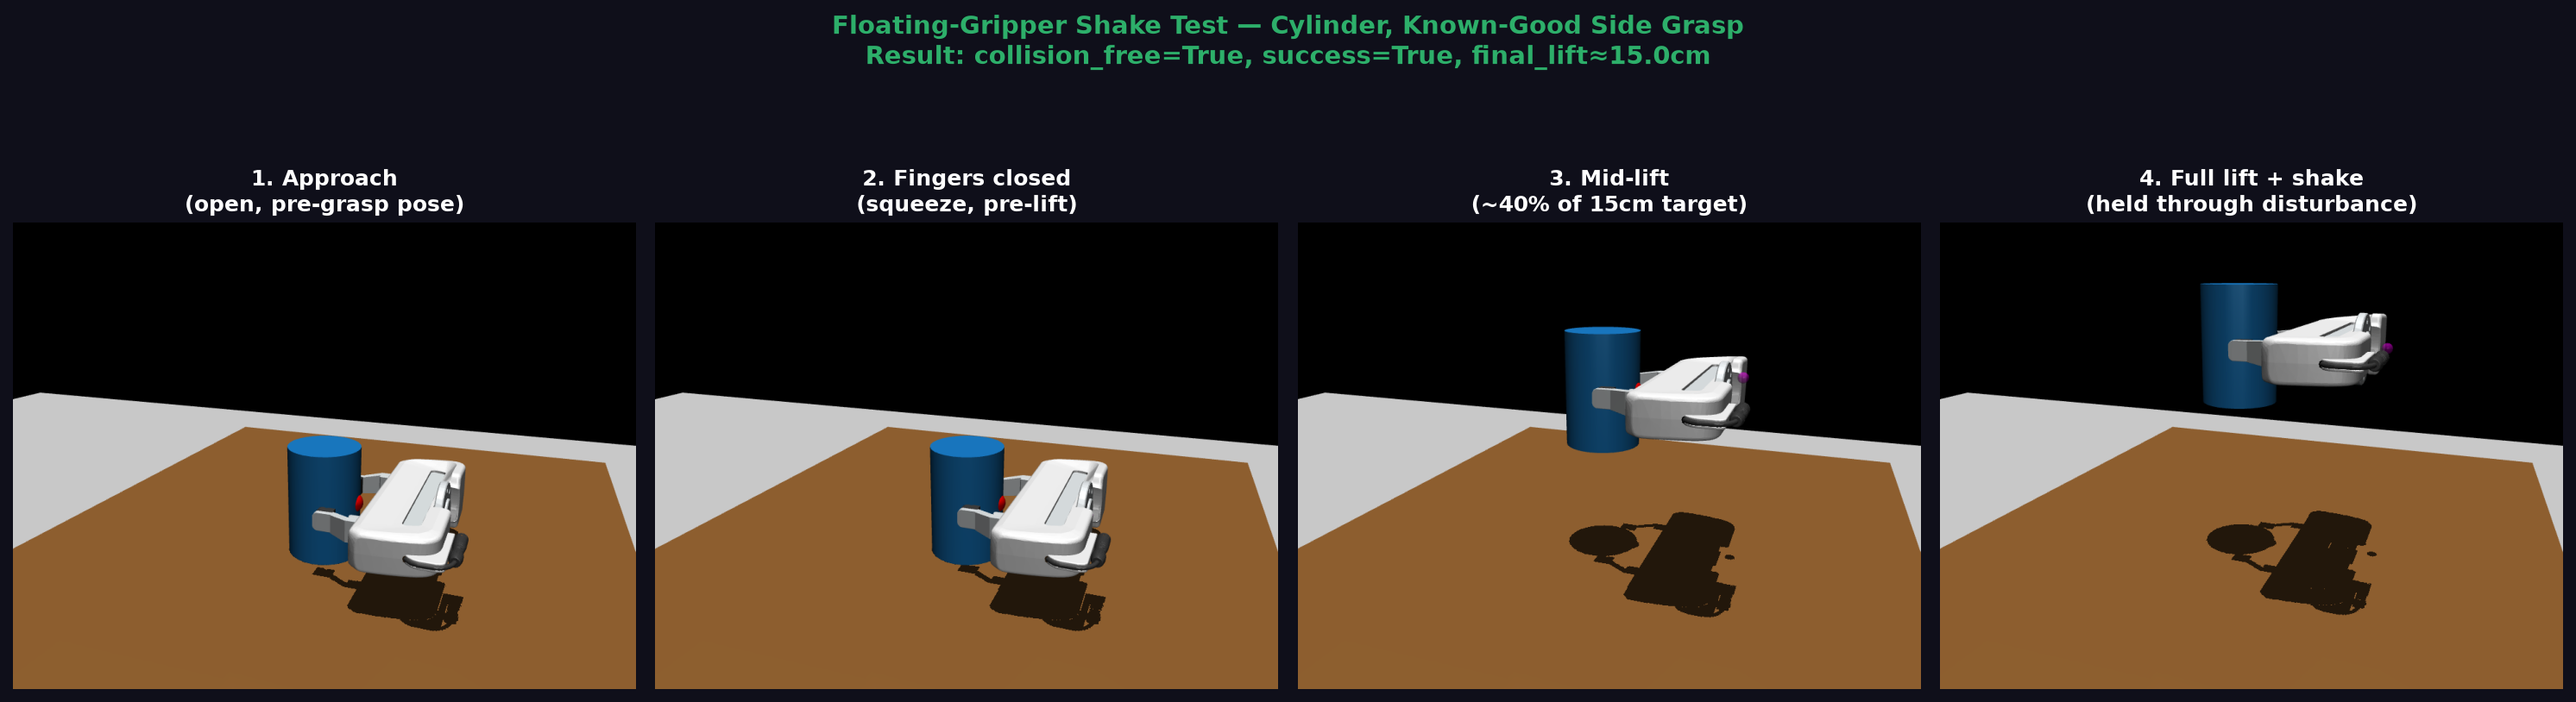
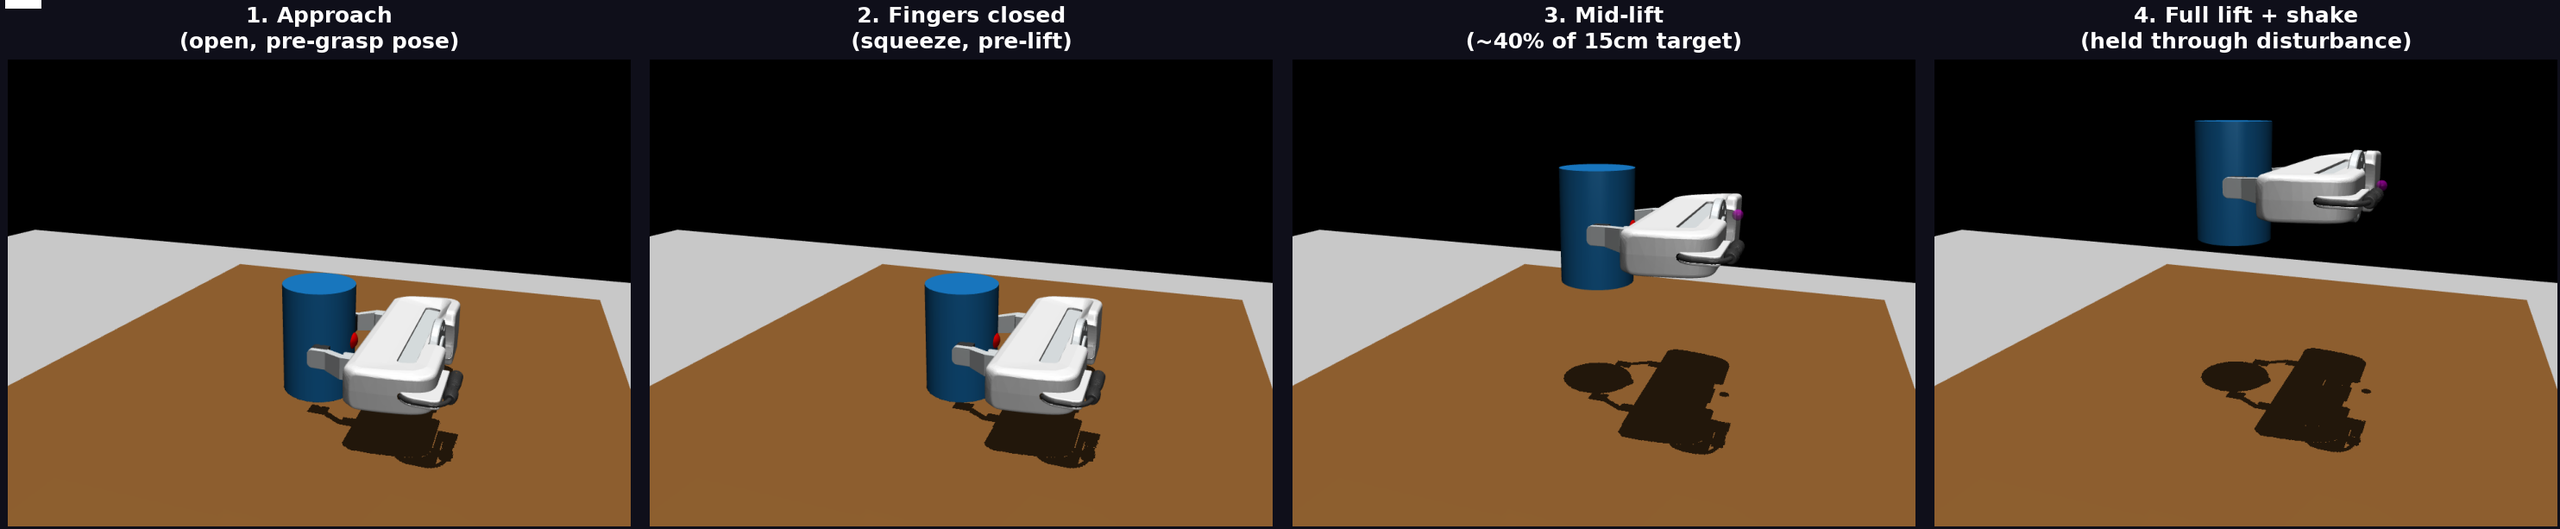
chore: update experimental results and figure assets in run_experiments.py

diff --git a/run_experiments.py b/run_experiments.py
@@ -1,14 +1,34 @@
 """
 run_experiments.py
 ==================
-Full 432-trial batch experiment for the MSc thesis.
+Batch experiment runner for the MSc thesis.
 
-Experimental grid (4 × 4 × 3 × 3 × 3 = 432 trials):
+ORIGINAL grid (4 x 4 x 3 x 3 x 3 = 432 trials), preserved in
+`results/experiment_results.csv` and referenced throughout the fitted SCM,
+counterfactual ground truth, and LLM baseline:
   sigma_d : [0.000, 0.005, 0.020, 0.040]   depth noise std dev (m)
   rho     : [1.0,   0.75,  0.50,  0.25]    point cloud keep fraction
-  phi     : [30,    45,    60]              camera elevation (deg)
+  phi     : [30,    45,    60]             camera elevation (deg)
   theta   : [0,     45,    90]             camera azimuth (deg)
   repeat  : [0,     1,     2]              3 random seeds per condition
+
+DENSIFIED grid (current default, 6 x 4 x 6 x 3 x 3 = 1296 trials), added to
+resolve two under-sampled regions identified from the original 432-trial
+results: the sigma_d success-rate collapse (42.6% -> 11.1%) occurred
+entirely between sigma_d=0.005 and sigma_d=0.02 with no intermediate
+sample point, and the phi "dead zone" (success falls to 15.3% at phi=60,
+with 98/167 unexplained "none" counterfactual failures concentrated there)
+was bracketed only by a bare 45 -> 60 jump. Two points were added inside
+each gap (sigma_d: +0.010, +0.015; phi: +50, +55, +65 to also bracket the
+transition from above) rather than replacing the original grid, so every
+original condition is re-sampled with 3 fresh seeds -- this run therefore
+also doubles seed coverage (3 -> 6) at every point shared with the original
+grid, addressing the "increase seeds" item from the same review.
+  sigma_d : [0.000, 0.005, 0.010, 0.015, 0.020, 0.040]
+  rho     : [1.0,   0.75,  0.50,  0.25]     unchanged
+  phi     : [30,    45,    50,    55,   60,   65]
+  theta   : [0,     45,    90]              unchanged
+  repeat  : [0,     1,     2]               3 random seeds per condition
 
 Each trial records:
   Exogenous  : sigma_d, rho, phi, theta, seed
@@ -18,14 +38,31 @@ Each trial records:
     e_pose   - Euclidean distance between proposed and true object position
     n_grasps - total CGN grasp candidates
   Outcome:
-    success  - 1 if object lifted above LIFT_HEIGHT, else 0
+    success  - 1 if the end-effector is within GRASP_RADIUS of the object
+               centroid after the scripted approach + close (proximity
+               criterion; see execute_grasp() -- NOT a physical lift check,
+               despite the historical LIFT_HEIGHT constant below, which is
+               unused by the current success logic and kept only because
+               demo_grasp.py still references its own copy for the viewer
+               demo's physical-lift attempt).
 
-Results saved to:  results/experiment_results.csv
+Results saved to:  results/experiment_results_densified.csv
+  (the original results/experiment_results.csv is untouched by this script
+  as of the densified grid -- see OUTPUT_CSV below)
+
+Contact-GraspNet auto-selects CUDA if available (contact_grasp_estimator.py:
+`self.device = torch.device("cuda:0" if torch.cuda.is_available() else "cpu")`),
+so no code change is needed to use a GPU. Before a long run, confirm it will
+actually be picked up:
+    python -c "import torch; print(torch.cuda.is_available())"
 
 Usage:
-    python run_experiments.py              # all 432 trials
-    python run_experiments.py --test       # 9-trial smoke test (3×3 grid)
+    python run_experiments.py              # all 1296 densified-grid trials
+    python run_experiments.py --test       # 9-trial smoke test (3x3 grid)
     python run_experiments.py --resume     # skip already-completed trials
+    python run_experiments.py --original   # re-run the original 432-trial
+                                            # grid instead (writes to
+                                            # experiment_results.csv)
 """
 
 import os
@@ -61,21 +98,34 @@ SCENE_XML   = os.path.join(_PROJECT, 'grasp_scene_v2.xml')
 CGN_ROOT    = os.path.join(_PROJECT, 'contact_graspnet_pytorch')
 CKPT_DIR    = os.path.join(CGN_ROOT, 'checkpoints', 'contact_graspnet')
 RESULTS_DIR = os.path.join(_PROJECT, 'results')
-OUTPUT_CSV  = os.path.join(RESULTS_DIR, 'experiment_results.csv')
 
-LIFT_HEIGHT = 0.55
+LIFT_HEIGHT = 0.55   # unused by execute_grasp()'s proximity criterion; kept
+                      # only for parity with demo_grasp.py's separate,
+                      # still-lift-based viewer demo
 IMG_W, IMG_H = 640, 480
 TARGET_BODY = 'target_object'
 CAM_NAME    = 'perception_camera'
 EE_SITE     = 'ee_site'
 TARGET_POS  = np.array([0.5, 0., 0.455])
 
-# Experimental grid
-SIGMA_D_VALS = [0.000, 0.005, 0.020, 0.040]   # depth noise
-RHO_VALS     = [1.00,  0.75,  0.50,  0.25]    # sparsity
-PHI_VALS     = [30.,   45.,   60.]             # elevation
-THETA_VALS   = [0.,    45.,   90.]             # azimuth
-N_REPEATS    = 3                               # seeds per condition
+# Original 432-trial grid (results/experiment_results.csv) -- preserved here
+# for provenance / re-run capability via --original. Do not edit these.
+ORIGINAL_SIGMA_D_VALS = [0.000, 0.005, 0.020, 0.040]
+ORIGINAL_RHO_VALS     = [1.00,  0.75,  0.50,  0.25]
+ORIGINAL_PHI_VALS     = [30.,   45.,   60.]
+ORIGINAL_THETA_VALS   = [0.,    45.,   90.]
+ORIGINAL_N_REPEATS    = 3
+
+# Densified grid (current default) -- adds points inside the sigma_d cliff
+# (0.005-0.02) and around the phi=60 dead-zone transition. rho and theta
+# are unchanged: rho showed no significant effect in the original SCM fit
+# (Eq2A p=0.144, Eq4 p=0.975) and theta's effect was already clean and
+# monotone, so neither needed denser sampling.
+SIGMA_D_VALS = [0.000, 0.005, 0.010, 0.015, 0.020, 0.040]   # depth noise
+RHO_VALS     = [1.00,  0.75,  0.50,  0.25]                  # sparsity (unchanged)
+PHI_VALS     = [30.,   45.,   50.,   55.,   60.,   65.]     # elevation
+THETA_VALS   = [0.,    45.,   90.]                          # azimuth (unchanged)
+N_REPEATS    = 3                                            # seeds per condition
 
 CSV_FIELDS = [
     'trial_id', 'sigma_d', 'rho', 'phi', 'theta', 'seed',
@@ -431,6 +481,13 @@ def main():
                         help='Run 9-trial smoke test instead of full grid')
     parser.add_argument('--resume', action='store_true',
                         help='Skip trials already in the CSV')
+    parser.add_argument('--original', action='store_true',
+                        help='Re-run the original 432-trial grid (writes to '
+                             'experiment_results.csv) instead of the '
+                             'densified 1296-trial grid (default; writes to '
+                             'experiment_results_densified.csv)')
+    parser.add_argument('--output', type=str, default=None,
+                        help='Override the output CSV path')
     args = parser.parse_args()
 
     # Build trial list
@@ -440,12 +497,23 @@ def main():
         phi_vals     = [45.]
         theta_vals   = [0.,   45.]
         n_repeats    = 1
+        default_csv  = 'experiment_results_test.csv'
+    elif args.original:
+        sigma_d_vals = ORIGINAL_SIGMA_D_VALS
+        rho_vals     = ORIGINAL_RHO_VALS
+        phi_vals     = ORIGINAL_PHI_VALS
+        theta_vals   = ORIGINAL_THETA_VALS
+        n_repeats    = ORIGINAL_N_REPEATS
+        default_csv  = 'experiment_results.csv'
     else:
         sigma_d_vals = SIGMA_D_VALS
         rho_vals     = RHO_VALS
         phi_vals     = PHI_VALS
         theta_vals   = THETA_VALS
         n_repeats    = N_REPEATS
+        default_csv  = 'experiment_results_densified.csv'
+
+    OUTPUT_CSV = args.output or os.path.join(RESULTS_DIR, default_csv)
 
     trials = []
     for i, (sigma_d, rho, phi, theta, rep) in enumerate(
